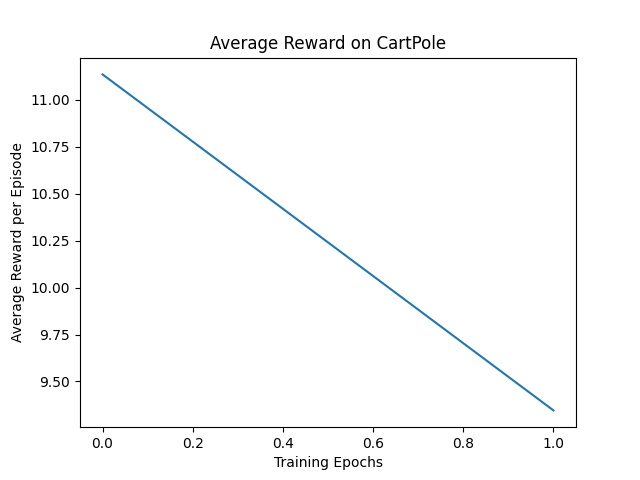
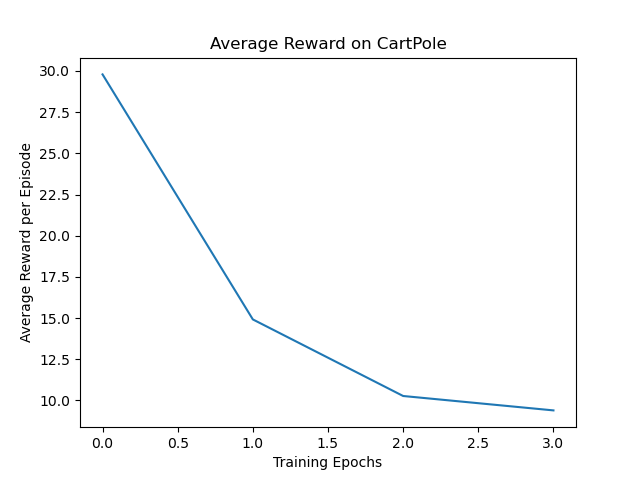
change detached tensors

diff --git a/a2c_train.py b/a2c_train.py
@@ -92,8 +92,9 @@ def train(
             done = terminated or truncated
             step_count = step_count + 1
             next_obs_tensor = torch.FloatTensor(next_obs).unsqueeze(0)
-            action_tensor = actor(next_obs_tensor)
 
+            # actor selects action
+            action_tensor = actor(next_obs_tensor)
             # sample the action
             dist = Categorical(action_tensor)
             action_sample = dist.sample()
@@ -106,26 +107,26 @@ def train(
             # TD target is meant to be a fixed reference point for the loss  
             # should not be used for optimizer adjust
             # so we use .detach() 
-            td_target = rew + gamma * next_value_tensor.detach() * (1 - done)
+            td_target = rew + gamma * next_value_tensor * (1 - done)
 
             # calcualte the advantage function
-            advantage = td_target - value_tensor.detach()
+            advantage = td_target - value_tensor
 
             # calculate the log_prob
             # pass the index of the chosen action in form of a tensor
             log_prob = dist.log_prob(action_sample)
 
             # calculate the actor loss
-            actor_loss = -1 * log_prob * advantage
-
-            # calculate the critic loss
-            critic_loss = F.mse_loss(td_target, value_tensor)
+            actor_loss = -1 * log_prob * advantage.detach()
 
             # optimize the actor
             optim_actor.zero_grad()
             actor_loss.backward()
             optim_actor.step()
 
+            # calculate the critic loss
+            critic_loss = F.mse_loss(td_target.detach(), value_tensor)
+            
             # optimize the critic
             optim_critic.zero_grad()
             critic_loss.backward()
@@ -136,7 +137,7 @@ def train(
             obs_tensor = next_obs_tensor
 
             # update statistics
-            if(step_count % 50_000 == 0) and step_count > 0:
+            if(step_count % 10_000 == 0) and step_count > 0:
                 sr.evaluation_checkpoint()
             progress_bar.update()
         # update statistics        
@@ -149,5 +150,5 @@ actor = Actor(input_size, num_actions)
 critic = Critic(input_size)
 stat_recorder = StatisticsRecorder()
 
-train(env, actor, critic, stat_recorder, nb_steps=100_000_000)
+train(env, actor, critic, stat_recorder, nb_steps=300_000)
 env.close()
